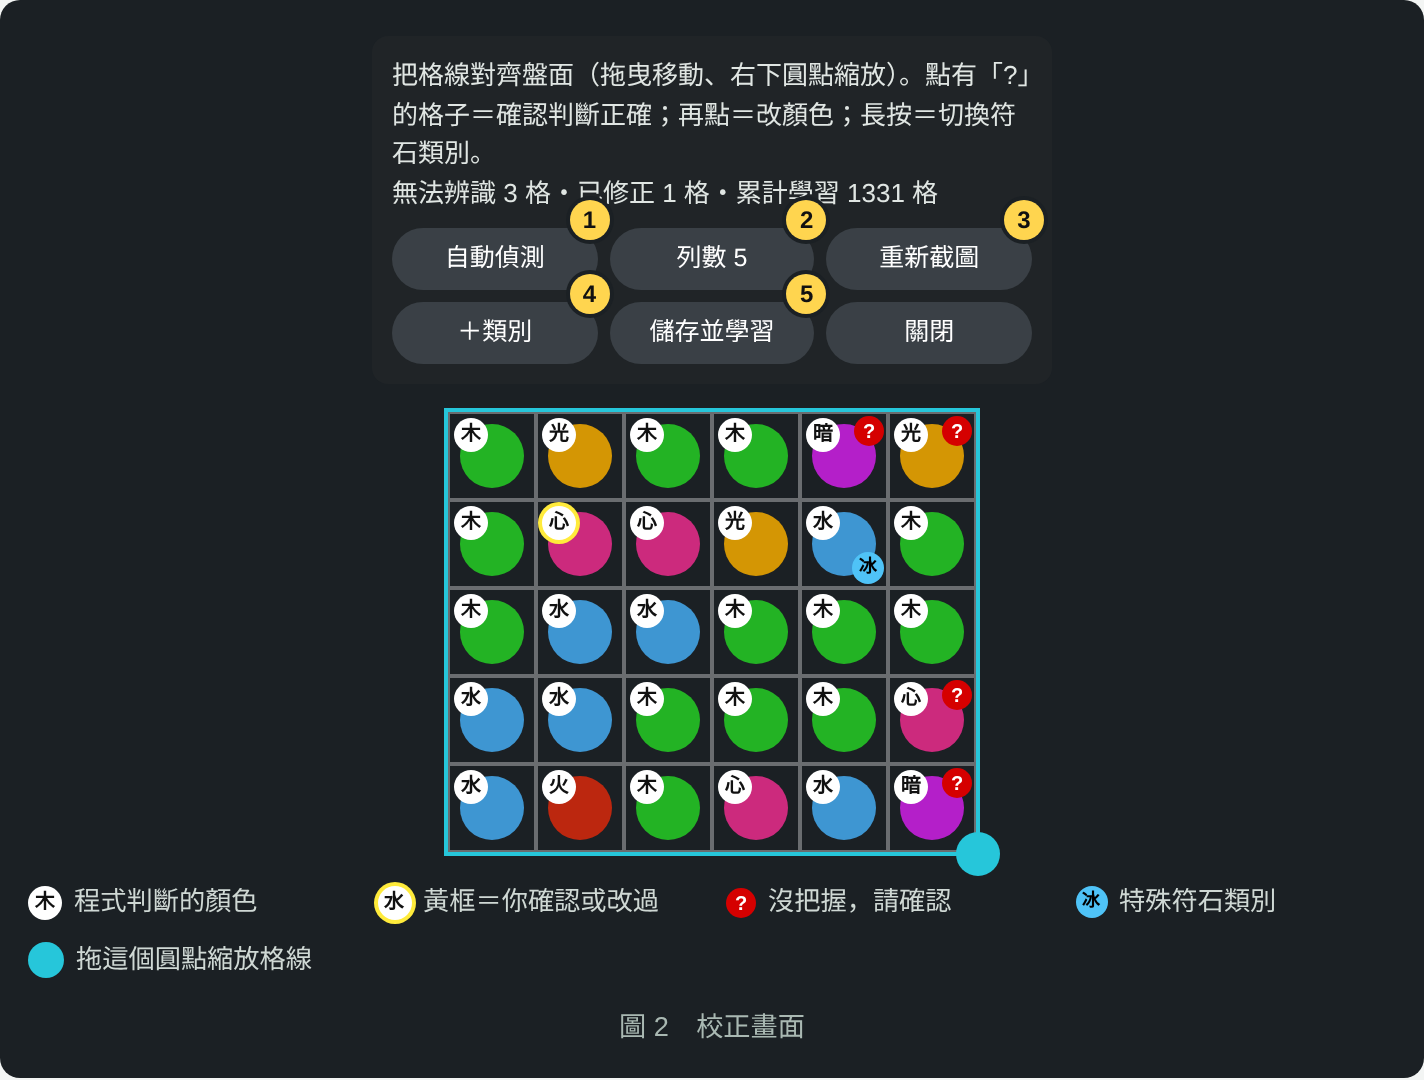
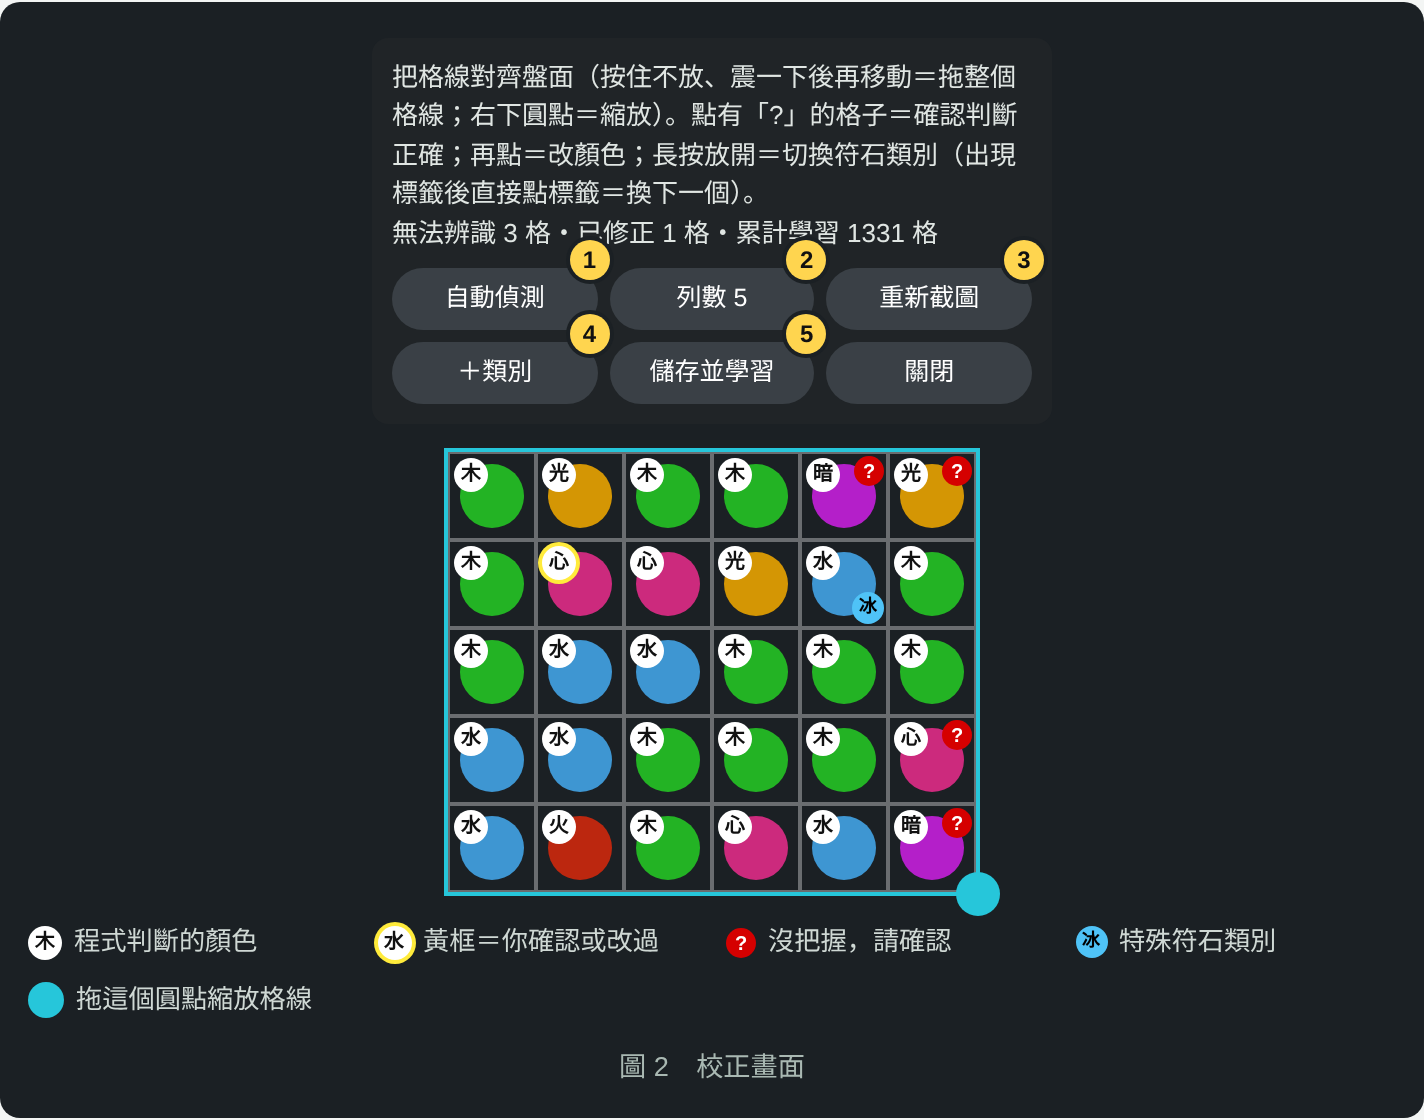
手冊更新到 build-45：按住再移動格線、點標籤換類別、做不到照最接近的轉、五屬傷害盾
Claude-Session: https://claude.ai/code/session_01AGXjXY2LNR3th9Q39c3Vpn

diff --git a/docs/manual/manual.html b/docs/manual/manual.html
@@ -117,7 +117,7 @@ figcaption { font-size: .85rem; color: #a9b8b2; margin-top: 10px; text-align: ce
 <header>
   <h1>自轉珠 操作手冊</h1>
   <p class="lead">自動轉珠：浮動工作列、自動判斷盤面與關卡條件、越玩越準。</p>
-  <span class="ver">對應版本：build-41（v0.1.41）以上</span>
+  <span class="ver">對應版本：build-45（v0.1.45）以上</span>
   <nav class="toc" aria-label="目錄">
     <a href="#start">第一次使用</a><a href="#bar">工作列</a><a href="#auto">自動執行</a><a href="#calib">校：校正盤面</a>
     <a href="#stage">關：關卡條件</a><a href="#types">符石類別</a><a href="#rules">＋：點擊規則</a><a href="#app">App 設定</a><a href="#faq">常見問題</a>
@@ -173,19 +173,25 @@ figcaption { font-size: .85rem; color: #a9b8b2; margin-top: 10px; text-align: ce
 <h2 id="auto">▶ 自動執行怎麼運作</h2>
 <h3>戰鬥中，每一回合</h3>
 <ol class="steps">
-  <li>等盤面靜止：連續兩張截圖的盤面一樣，而且沒有問號（認不出的格子）。盤面本來就有三連也會照常轉。</li>
+  <li>等盤面靜止：連續兩張截圖的盤面一樣。盤面本來就有三連也會照常轉。認不出的格子（問號）在 1/3 以內（6×5 盤 10 格）照樣轉，那些格子當障礙繞開。</li>
   <li>判斷關卡：比對敵人畫面，認出記住的關卡就套用條件，工作列的「關」會變黃色。</li>
   <li>沒看過的關卡：若「自動讀王技能」是開的，程式會長按王打開技能視窗，讀出盾的條件並記住。</li>
   <li>讀 NUM 盾數字：NUM 盾的數字每回合會變，每回合都重新讀。</li>
   <li>計算最佳轉法：在轉珠時間內把路徑用滿，combo 最多、消珠最多，而且符合所有關卡條件。</li>
   <li>先在畫面上顯示路徑，再自動拖曳。</li>
 </ol>
-<h3>什麼時候會自己停下來並震動提醒</h3>
+<h3>條件做不到時：照最接近的轉，不會停住</h3>
+<p>下面這些情況，程式會跳一行提示，然後<b>照最接近條件的轉法直接轉</b>，自動執行也會繼續：</p>
 <ul class="plain">
-  <li>這盤找不到同時符合所有關卡條件的轉法（例如 NUM 盾湊不到剛好的粒數）。程式不會為了打 combo 而亂轉。</li>
-  <li>條件在這盤數學上不可能，例如必消水但盤面水不到 3 顆。</li>
-  <li>盤面全部是不能碰的珠子。</li>
+  <li>這盤找不到完全符合所有關卡條件的轉法，例如 NUM 盾湊不到剛好的粒數，就選最接近的粒數。</li>
+  <li>條件在這盤數學上做不到，例如必消水但盤面水不到 3 顆。</li>
+  <li>自動讀王技能時，有需要你補充的機制（之後可以按「關」補上）。</li>
+</ul>
+<h3>只有這些情況會停下來並震動提醒</h3>
+<ul class="plain">
+  <li>盤面全部是不能碰的珠子，一步都動不了。</li>
   <li>看到你設定為「看到就停止」的畫面，例如戰敗、體力不足。</li>
+  <li>按「轉」時一半以上的格子認不出來，通常代表畫面不是戰鬥盤面。</li>
 </ul>
 
 <!-- ================= 校正 ================= -->
@@ -194,7 +200,7 @@ figcaption { font-size: .85rem; color: #a9b8b2; margin-top: 10px; text-align: ce
   <span class="tap-hint">點圖上的按鈕或格子看說明</span>
   <div class="center"><div>
   <div class="panel" style="max-width:340px">
-    <div class="hint">把格線對齊盤面（拖曳移動、右下圓點縮放）。點有「?」的格子＝確認判斷正確；再點＝改顏色；長按＝切換符石類別。<br>無法辨識 3 格・已修正 1 格・累計學習 1331 格</div>
+    <div class="hint">把格線對齊盤面（按住不放、震一下後再移動＝拖整個格線；右下圓點＝縮放）。點有「?」的格子＝確認判斷正確；再點＝改顏色；長按放開＝切換符石類別（出現標籤後直接點標籤＝換下一個）。<br>無法辨識 3 格・已修正 1 格・累計學習 1331 格</div>
     <div class="prow" style="grid-template-columns:repeat(3,1fr)">
       <div class="pbtn">自動偵測<span class="num">1</span></div><div class="pbtn">列數 5<span class="num">2</span></div><div class="pbtn">重新截圖<span class="num">3</span></div>
       <div class="pbtn">＋類別<span class="num">4</span></div><div class="pbtn">儲存並學習<span class="num">5</span></div><div class="pbtn">關閉</div>
@@ -214,11 +220,12 @@ figcaption { font-size: .85rem; color: #a9b8b2; margin-top: 10px; text-align: ce
 </figure>
 <div class="tbl"><table>
   <tr><th>操作</th><th>效果</th></tr>
-  <tr><td>拖曳格線</td><td>移動整個格線，對齊遊戲的盤面。</td></tr>
+  <tr><td>按住不放，震一下後再移動</td><td>移動整個格線，對齊遊戲的盤面。一按下就滑動不會移動格線，避免點珠子時手指晃到。</td></tr>
   <tr><td>拖右下圓點</td><td>放大縮小格線。</td></tr>
   <tr><td>點有「?」的珠子</td><td><b>確認判斷正確</b>。同一種顏色、有問號的珠子會<b>一起確認</b>，問號全部消失。</td></tr>
   <tr><td>再點一次（或點沒有問號的珠子）</td><td>換顏色：火 → 水 → 木 → 光 → 暗 → 心。每種顏色改一顆，同種的會自動跟著更新。</td></tr>
-  <tr><td>長按珠子</td><td>切換符石類別：普通 → 強化 → 風化/黏腐 → 觸電 → 冰封/石化 → 起點GO → 自訂類別…</td></tr>
+  <tr><td>長按珠子再放開</td><td>切換符石類別：普通 → 強化 → 風化/黏腐 → 觸電 → 冰封/石化 → 起點GO → 自訂類別…，珠子右下角會出現類別標籤。</td></tr>
+  <tr><td>點右下角的類別標籤</td><td>直接換到下一個類別，不用再長按。換回「普通」時標籤消失。</td></tr>
   <tr><td><span class="legend-num">1</span>自動偵測</td><td>自動找盤面位置。</td></tr>
   <tr><td><span class="legend-num">2</span>列數</td><td>切換盤面列數（5、6、7 列等）。</td></tr>
   <tr><td><span class="legend-num">3</span>重新截圖</td><td>盤面變了（例如動畫播完）時重新截一張。</td></tr>
@@ -230,7 +237,7 @@ figcaption { font-size: .85rem; color: #a9b8b2; margin-top: 10px; text-align: ce
 <!-- ================= 關卡條件 ================= -->
 <h2 id="stage">關：關卡條件</h2>
 <p>按「關」時，<b>條件每次都從空白開始</b>，請照眼前這隻王的盾重新設定。設定好後按 <b>完成</b>：程式會記住這一關，並且<b>照這些條件只轉這一回合</b>，不會開始連續的自動執行。</p>
-<p>小技巧：先在遊戲裡<b>長按王</b>打開技能視窗，再按「關」，程式會讀出技能文字，自動設定看得懂的條件。</p>
+<p>小技巧：先在遊戲裡<b>長按王</b>打開技能視窗，再按「關」，程式會讀出技能文字，自動設定看得懂的條件，例如「五屬傷害盾」會自動把火水木光暗都設成必消；「電擊符石」則靠符石辨識（先在「校」把電擊符石標成「觸電」）。</p>
 <figure id="fig-stage">
   <span class="tap-hint">點圖上的按鈕或格子看說明</span>
   <div class="center"><div>
@@ -291,7 +298,7 @@ figcaption { font-size: .85rem; color: #a9b8b2; margin-top: 10px; text-align: ce
 </table></div>
 
 <h3>盾與條件按鈕</h3>
-<p>每按一下換一個數值，最後會回到「無」。可以同時設定好幾個條件，<b>全部都要符合</b>才會轉。</p>
+<p>每按一下換一個數值，最後會回到「無」。可以同時設定好幾個條件，程式會找<b>全部都符合</b>的轉法；這盤做不到時，照最接近條件的轉法轉。</p>
 <div class="tbl"><table>
   <tr><th>按鈕</th><th>意思</th><th>可選數值</th></tr>
   <tr><td>Combo盾</td><td>整回合（含疊珠）至少 X combo。</td><td>5～12</td></tr>
@@ -321,7 +328,7 @@ figcaption { font-size: .85rem; color: #a9b8b2; margin-top: 10px; text-align: ce
 
 <!-- ================= 符石類別 ================= -->
 <h2 id="types">符石類別</h2>
-<p>在校正畫面<b>長按</b>珠子切換類別，按「儲存並學習」後，之後看到同樣的樣子會自動認出。</p>
+<p>在校正畫面<b>長按</b>珠子切換類別（出現標籤後，直接點標籤換下一個），按「儲存並學習」後，之後看到同樣的樣子會自動認出。</p>
 <div class="tbl"><table>
   <tr><th>類別（標籤）</th><th>能不能碰</th><th>消除方式</th><th>例子</th></tr>
   <tr><td>普通</td><td>可以</td><td>照常消除</td><td>一般珠、種族符石</td></tr>
@@ -392,7 +399,7 @@ figcaption { font-size: .85rem; color: #a9b8b2; margin-top: 10px; text-align: ce
 <h2 id="faq">常見問題</h2>
 <h3>按 ▶ 不會轉？</h3>
 <ul class="plain">
-  <li>盤面有認不出的格子：按「校」，點問號確認或修正，再按「儲存並學習」。</li>
+  <li>認不出的格子太多（超過 1/3）：按「校」，點問號確認或修正，再按「儲存並學習」。</li>
   <li>盤面還在動（落珠動畫）：等一下，程式要連續兩張截圖一樣才會轉。</li>
   <li>格線沒對齊：按「校」重新對齊。</li>
 </ul>
@@ -518,7 +525,7 @@ figcaption { font-size: .85rem; color: #a9b8b2; margin-top: 10px; text-align: ce
     d.dataset.tip = q.has(i)
       ? `<b>有問號的${c}珠</b>：程式判斷是${c}但沒把握。點一下＝確認正確，所有有問號的${c}珠會一起確認。判斷錯了就再點一次換顏色。`
       : edited.has(i) ? `<b>黃框</b>：這顆是你確認或改過的，按「儲存並學習」後會學起來。`
-      : ice.has(i) ? `<b>「冰」標籤</b>：長按珠子切換類別，這顆被標成冰封／石化（不能碰、不能消）。`
+      : ice.has(i) ? `<b>「冰」標籤</b>：這顆被標成冰封／石化（不能碰、不能消）。直接點這個標籤換下一個類別。`
       : `<b>${c}珠</b>：點一下換顏色（火→水→木→光→暗→心），長按切換符石類別。`;
   });
   r.dataset.tip = "<b>縮放圓點</b>：拖這個圓點放大縮小格線，讓格線對齊遊戲的盤面。";
